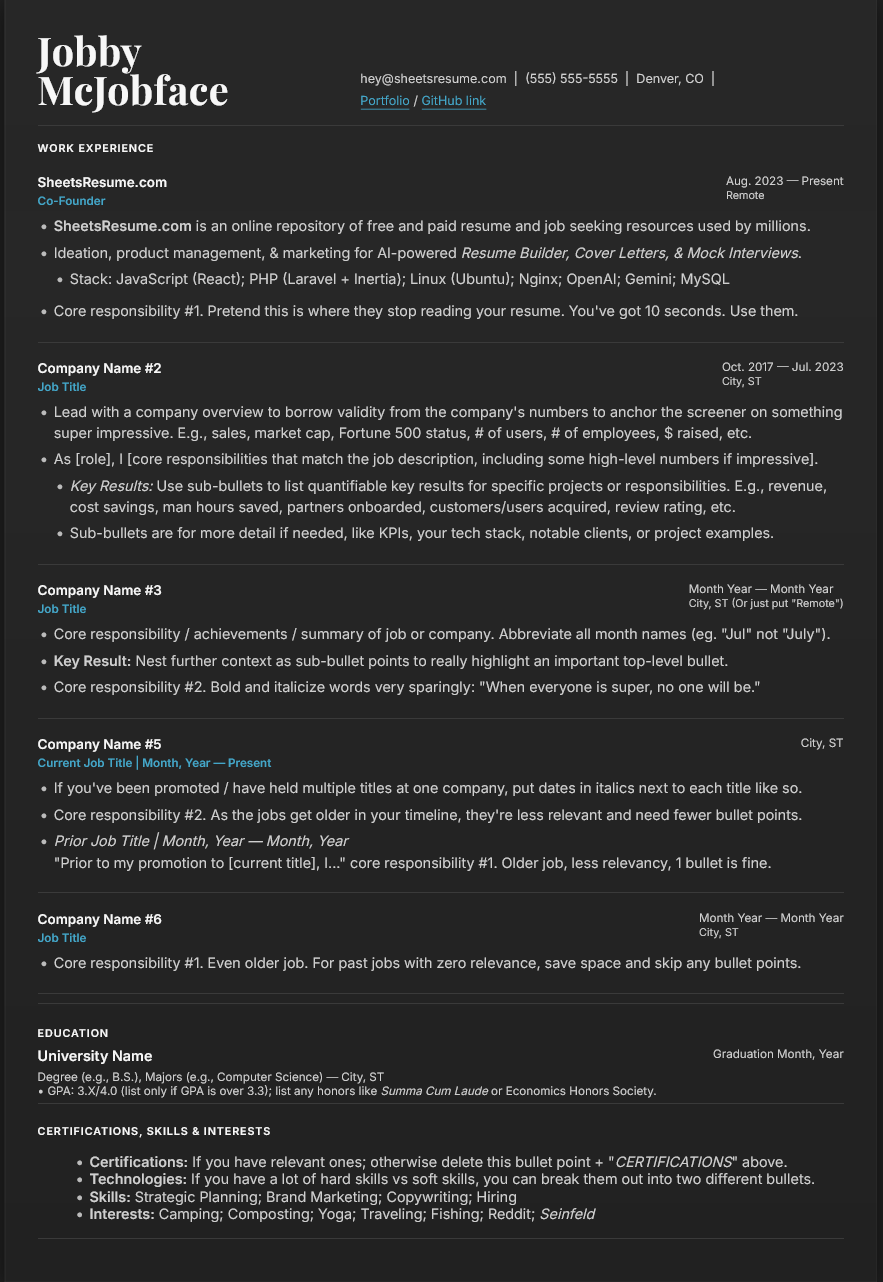
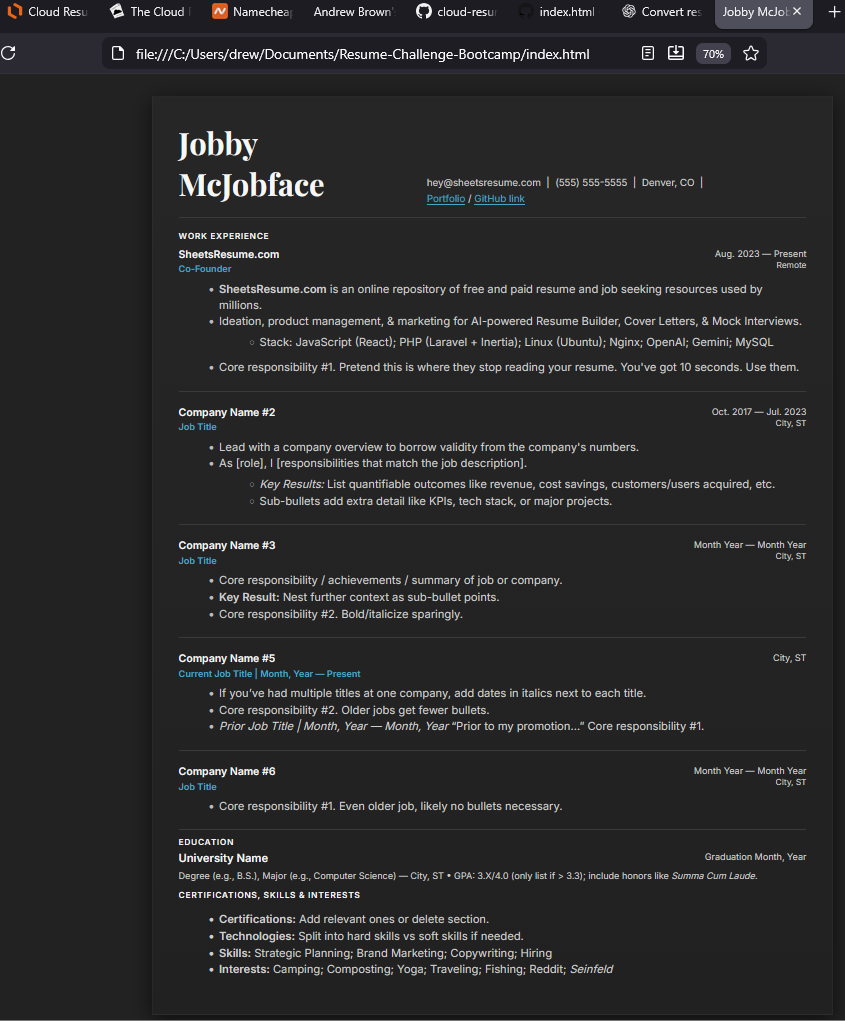
updated css filename and  render img

diff --git a/frontend/public/style.css b/frontend/public/style.css
@@ -1,0 +1,160 @@
+:root{
+  --bg:#222;
+  --panel:#1e1e1e;
+  --muted:#cfcfcf;
+  --accent:#44a6c8;
+  --white:#f7f7f7;
+  --rule:#3a3a3a;
+  --bullet:#bbbbbb;
+  --max-width:900px;
+}
+
+body{
+  margin:0;
+  background:var(--bg);
+  color:var(--muted);
+  font-family: "Inter", sans-serif;
+}
+
+.wrap{
+  max-width:var(--max-width);
+  margin:32px auto;
+  padding:36px;
+  background:linear-gradient(180deg, rgba(255,255,255,0.02), rgba(0,0,0,0.03));
+  border:1px solid rgba(255,255,255,0.03);
+  box-shadow:0 6px 30px rgba(0,0,0,0.6);
+}
+
+/* HEADER */
+header{
+  display:flex;
+  align-items:flex-end;
+  gap:24px;
+  border-bottom:2px solid var(--rule);
+  padding-bottom:18px;
+  margin-bottom:18px;
+}
+
+.name{
+  font-family:"Playfair Display", serif;
+  color:var(--white);
+  font-size:44px;
+  margin:0;
+}
+
+.contact{
+  margin-left:auto;
+  text-align:right;
+  font-size:14px;
+  display:flex;
+  gap:8px;
+  flex-wrap:wrap;
+}
+
+.contact a{
+  color:var(--accent);
+  text-decoration:underline;
+  text-underline-offset:3px;
+}
+
+/* SECTIONS */
+.section-title h2{
+  font-size:12px;
+  margin:0;
+  color:var(--white);
+  text-transform:uppercase;
+  letter-spacing:1px;
+  font-weight:700;
+}
+
+.work .job{
+  padding:10px 0;
+  border-bottom:1px solid var(--rule);
+  margin-bottom:10px;
+}
+
+/* JOB HEADERS */
+.job-head{
+  display:flex;
+  justify-content:space-between;
+  gap:12px;
+}
+
+.company{
+  font-weight:700;
+  color:var(--white);
+  font-size:15px;
+}
+
+.title{
+  color:var(--accent);
+  font-size:13px;
+  font-weight:600;
+  margin-top:4px;
+}
+
+.dates{
+  font-size:13px;
+  text-align:right;
+}
+
+.dates span{
+  color:var(--muted);
+  font-size:12px;
+}
+
+/* LISTS */
+.job ul{
+  margin:8px 0 12px 18px;
+  line-height:1.45;
+}
+
+.job li::marker{
+  color:var(--bullet);
+}
+
+.job ul ul{
+  margin-top:6px;
+  margin-left:18px;
+  list-style:circle;
+}
+
+/* EDUCATION */
+.edu-row{
+  display:flex;
+  justify-content:space-between;
+  margin-top:6px;
+}
+
+.edu-left{
+  color:var(--white);
+  font-weight:700;
+}
+
+.edu-right{
+  font-size:13px;
+}
+
+.muted-note{
+  font-size:13px;
+  margin-top:6px;
+}
+
+/* SKILLS */
+.skills ul{
+  margin-left:18px;
+  line-height:1.45;
+}
+
+/* RESPONSIVE */
+@media (max-width:640px){
+  .name { font-size:32px; }
+  header{
+    flex-direction:column;
+    align-items:flex-start;
+  }
+  .contact{
+    text-align:left;
+    margin-top:8px;
+  }
+}

diff --git a/frontend/public/index.html b/frontend/public/index.html
@@ -9,6 +9,6 @@
   <link href="https://fonts.googleapis.com/css2?family=Playfair+Display:wght@700;900&family=Inter:wght@300;400;600&display=swap" rel="stylesheet">
 
   <!-- External CSS -->
-  <link rel="stylesheet" href="resume.css" />
+  <link rel="stylesheet" href="style.css" />
 </head>
 </html>
